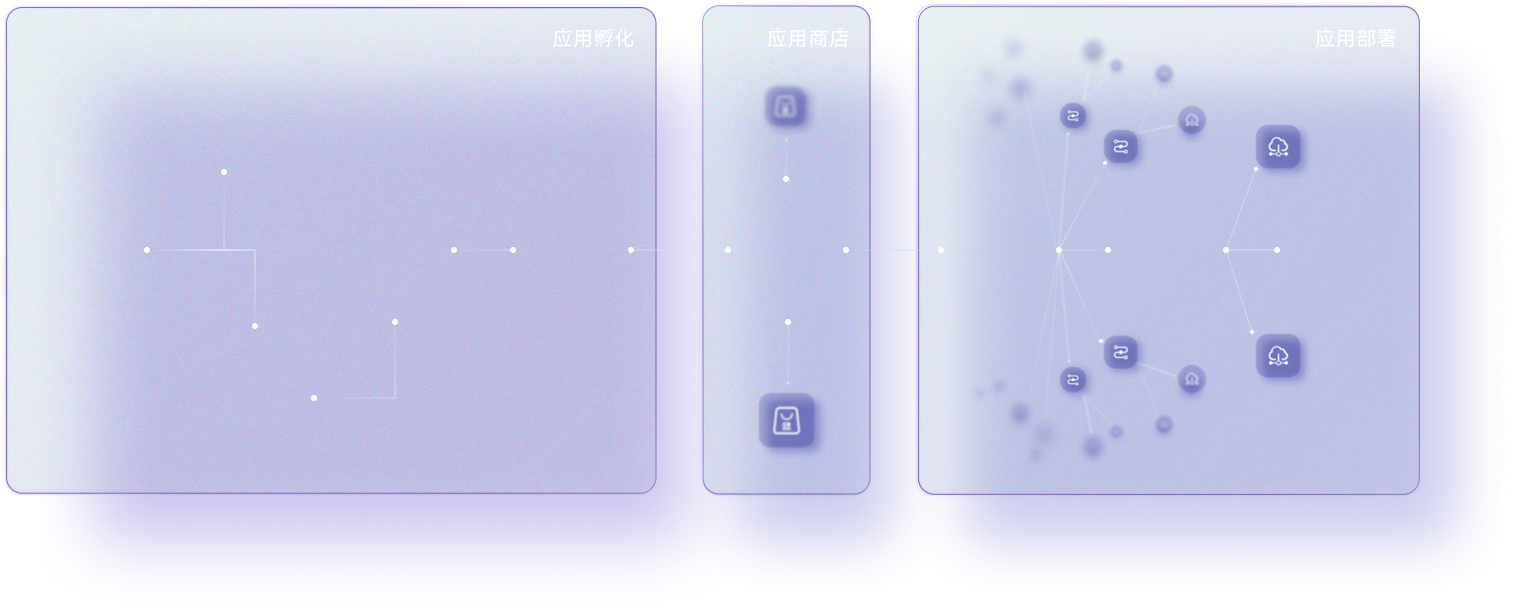
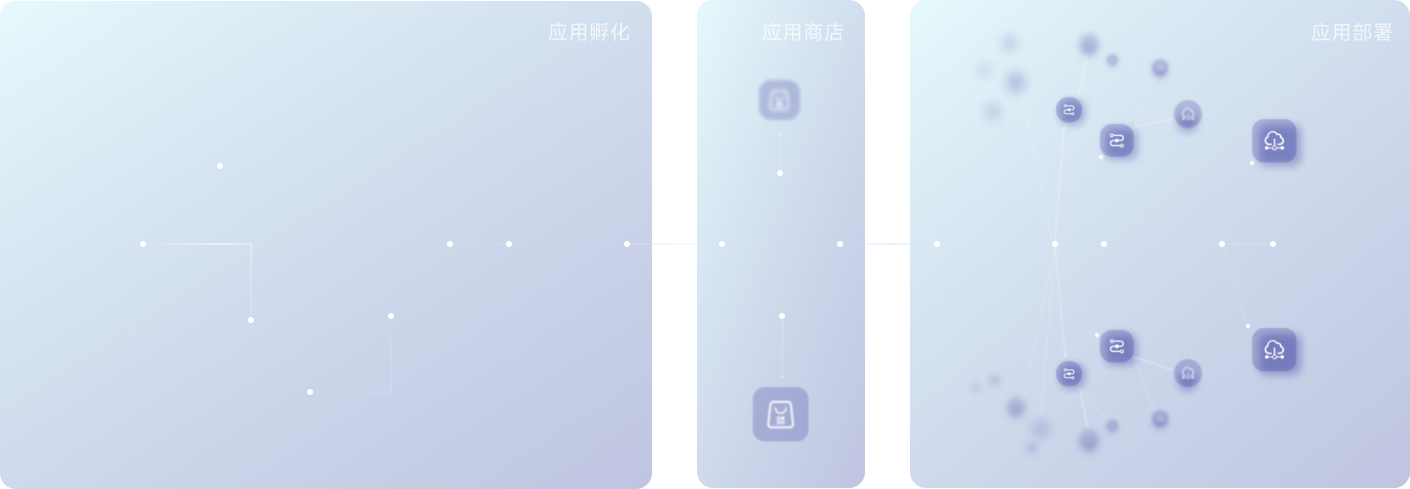
界面更新

diff --git a/edgegallery-fe/src/pages/developer/application/ApplicationtList.vue b/edgegallery-fe/src/pages/developer/application/ApplicationtList.vue
@@ -33,6 +33,13 @@
       />
       <div
         class="app-btn"
+        :class="isDeleteActive?'delete-active':'delete-default'"
+        title="删除"
+        v-if="zoom>2"
+        @click.stop="deleteApp()"
+      />
+      <div
+        class="app-btn"
         :class="isViewActive?'view-active':'view-default'"
         title="更多"
         @click.stop="changeView(isViewActive)"
@@ -54,6 +61,7 @@
       >
         <ListComp
           :data-list="currentAppList"
+          :show-delete-btn="isDeleteActive"
           :class="zoom===2?'':'app-flex-items'"
         />
       </div>
@@ -68,6 +76,7 @@
       >
         <ListComp
           :data-list="filterStatus('CREATED')"
+          :show-delete-btn="isDeleteActive"
           :class="zoom===2?'':'app-flex-items'"
         />
       </div>
@@ -82,6 +91,7 @@
       >
         <ListComp
           :data-list="filterStatus('CONFIGURED')"
+          :show-delete-btn="isDeleteActive"
           :class="zoom===2?'':'app-flex-items'"
         />
       </div>
@@ -96,6 +106,7 @@
       >
         <ListComp
           :data-list="filterStatus('DEPLOYED')"
+          :show-delete-btn="isDeleteActive"
           :class="zoom===2?'':'app-flex-items'"
         />
       </div>
@@ -116,6 +127,7 @@ export default {
       return Number(this.$store.state.zoom)
     },
     currentFlow (val) {
+      console.log(val)
       this.initApplicationList()
       return Number(this.$store.state.currentFlow)
     }
@@ -126,19 +138,26 @@ export default {
       currentAppList: [],
       searchValue: '',
       isSearchActive: false,
-      isViewActive: false
+      isViewActive: false,
+      isDeleteActive: false
     }
   },
   methods: {
     changeView (val) {
       this.isViewActive = !val
       val ? this.$emit('zoomChanged', 3) : this.$emit('zoomChanged', 2)
+      if (!this.isViewActive) {
+        this.isDeleteActive = false
+      }
     },
     changeSmall () {
       this.$emit('zoomChanged', 1)
     },
     searchProject () {
       this.isSearchActive = true
+    },
+    deleteApp () {
+      this.isDeleteActive = !this.isDeleteActive
     },
     initApplicationList () {
       applicationApi.getApplicationList().then(res => {
@@ -193,6 +212,12 @@ export default {
     }
     .search-active{
       background: url("../../../assets/images/projects/pro_search_after.png") no-repeat center;
+    }
+    .delete-default{
+      background: url("../../../assets/images/projects/pro_delete_default.png") no-repeat center;
+    }
+    .delete-active{
+      background: url("../../../assets/images/projects/pro_delete_click.png") no-repeat center;
     }
     .view-default{
       background: url("../../../assets/images/projects/pro_view_default.png") no-repeat center;

diff --git a/edgegallery-fe/src/pages/developer/application/ListComp.vue b/edgegallery-fe/src/pages/developer/application/ListComp.vue
@@ -6,10 +6,15 @@
       class="app-item"
       @click.stop="item.id===0?createApplication():checkProjectDetail(item)"
     >
+      <div
+        class="app-item-delete"
+        @click="deleteApp(item.id)"
+        v-if="item.id!==0&&showDeleteBtn"
+      />
       <img
         :src="item.id===0?item.iconUrl:getFile(item.iconFileId)"
         :alt="item.name.length>4?item.name.substr(0,4)+'...':item.name"
-        :class="item.status==='creating'?'current':''"
+        :class="item.id==='creating'?'current':''"
       >
       <div
         class="app-name"
@@ -36,6 +41,10 @@ export default {
 
   },
   props: {
+    showDeleteBtn: {
+      type: Boolean,
+      default: false
+    },
     dataList: {
       type: Array,
       default: () => []
@@ -67,6 +76,21 @@ export default {
     },
     getFile (id) {
       return applicationApi.getFileStream(id)
+    },
+    deleteApp (id) {
+      this.$confirm('此操作将永久删除该应用, 是否继续?', '提示', {
+        confirmButtonText: '确定',
+        cancelButtonText: '取消',
+        type: 'warning'
+      }).then(() => {
+        applicationApi.deleteApp(id).then(res => {
+          this.$message({
+            type: 'success',
+            message: '删除成功!'
+          })
+          this.$store.commit('changeFlow', '0')
+        })
+      })
     }
   }
 }
@@ -78,6 +102,7 @@ export default {
     cursor: pointer;
     padding: 20px 15px;
     width: 154px;
+    position: relative;
     .app-name{
       text-align: center;
       white-space: pre-wrap;
@@ -91,6 +116,15 @@ export default {
       border: 3px solid #42F6AC;
       border-radius: 66px;
     }
+  }
+  .app-item-delete{
+    width: 10px;
+    height: 10px;
+    position: relative;
+    top: 10px;
+    left: 75px;
+    background: url("../../../assets/images/projects/pro_failed.png") no-repeat center;
+    z-index: 10;
   }
   .app-common-status{
     font-size: 10px;

diff --git a/edgegallery-fe/src/pages/developer/application/CreateApplicationForm.vue b/edgegallery-fe/src/pages/developer/application/CreateApplicationForm.vue
@@ -253,7 +253,8 @@ export default {
       isUploadIcon: false,
       logoFileList: [],
       mdFileList: [],
-      defaultIconFile: []
+      defaultIconFile: [],
+      appId: sessionStorage.getItem('applicationId') || ''
     }
   },
   methods: {
@@ -377,16 +378,27 @@ export default {
             formdata.append('file', this.defaultIconFile[0])
             formdata.append('fileType', 'icon')
           }
-          applicationApi.uploadAppIcon(formdata).then(res => {
-            if (res.data && res.data.fileId) {
-              this.uploadMdFile(res.data.fileId)
-            }
-          }).catch(err => {
-            console.log(err)
-          })
+          if (this.appId.length > 0) {
+            this.modifyApp()
+          } else {
+            applicationApi.uploadAppIcon(formdata).then(res => {
+              if (res.data && res.data.fileId) {
+                this.uploadMdFile(res.data.fileId)
+              }
+            }).catch(err => {
+              console.log(err)
+            })
+          }
         } else {
           console.log('error submit!!')
         }
+      })
+    },
+    modifyApp () {
+      this.applicationFormData.id = this.appId
+      applicationApi.modifyApp(this.appId, this.applicationFormData).then(res => {
+        this.$message.success('更新应用成功！')
+        this.$router.push('/EG/developer/home')
       })
     },
     confirmToCreate (iconFileId, mdFileId) {
@@ -425,11 +437,9 @@ export default {
     }
   },
   mounted () {
-    let appId = sessionStorage.getItem('applicationId')
-    if (appId.length > 0) {
-      this.getApplicationInfo(appId)
-    } else {
-      this.conversionIcon()
+    this.conversionIcon()
+    if (this.appId.length > 0) {
+      this.getApplicationInfo(this.appId)
     }
   }
 }

diff --git a/edgegallery-fe/src/pages/homePage/Home.vue b/edgegallery-fe/src/pages/homePage/Home.vue
@@ -133,7 +133,7 @@ export default {
         height: 100%;
         margin-right: 3%;
         overflow: hidden;
-        background: url('../../assets/images/index/index_mask.png') no-repeat center;
+        background: url('../../assets/images/index/index_module_bg_default.png') no-repeat center;
         background-size: cover;
         border: 2px solid #B6A4EC;
         border-radius: 17px;
@@ -151,6 +151,9 @@ export default {
       }
       .main-content-right-item:hover{
         transform: translate3d(0,-20px,0);
+        border: 3px solid #42F6AC;
+        background: url('../../assets/images/index/index_module_bg_active.png') no-repeat center;
+        background-size: cover;
       }
     }
 

diff --git a/edgegallery-fe/src/pages/developer/workflow/Incubation.vue b/edgegallery-fe/src/pages/developer/workflow/Incubation.vue
@@ -103,24 +103,24 @@ export default {
 <style lang="less" scoped>
 .incubation{
   .capability-center{
-    left: 160px;
-    top: -140px;
+    left: 155px;
+    top: -145px;
   }
   .app-application{
-    left: 25px;
-    top: 140px;
+    left: 20px;
+    top: 130px;
   }
   .app-image{
     left: 330px;
-    top: -250px;
+    top: -260px;
   }
   .app-test{
-    left: 505px;
-    top: -380px;
+    left: 500px;
+    top: -390px;
   }
   .app-sandbox{
-    left: 195px;
-    top: 20px;
+    left: 190px;
+    top: 15px;
   }
 }
 </style>

diff --git a/edgegallery-fe/src/api/developerApi.js b/edgegallery-fe/src/api/developerApi.js
@@ -68,6 +68,12 @@ let applicationApi = {
   getAppInfo: function (appId) {
     return GET('/mec-developer/mec/developer/v2/applications/' + appId)
   },
+  deleteApp: function (appId) {
+    return DELETE('/mec-developer/mec/developer/v2/applications/' + appId)
+  },
+  modifyApp: function (appId, params) {
+    return PUT('/mec-developer/mec/developer/v2/applications/' + appId, params)
+  },
   getFileStream: function (fileId) {
     return '/mec-developer/mec/developer/v2/upload-files/' + fileId + '/action/get-file-stream'
   },

diff --git a/edgegallery-fe/src/pages/developer/workflow/Deployment.vue b/edgegallery-fe/src/pages/developer/workflow/Deployment.vue
@@ -83,16 +83,16 @@ export default {
 <style lang="less" scoped>
   .deployment{
     .deploy-meao{
-      top: 140px;
-      left: -55px;
+      top: 130px;
+      left: -60px;
     }
     .deploy-mepm{
-      top: 10px;
-      left: 115px;
+      top: 0px;
+      left: 110px;
     }
     .deploy-node{
-      top: -120px;
-      left: 285px;
+      top: -130px;
+      left: 280px;
     }
   }
 </style>

diff --git a/edgegallery-fe/src/tools/request.js b/edgegallery-fe/src/tools/request.js
@@ -76,7 +76,8 @@ function DELETE (url, params) {
       withCredentials: true,
       headers: {
         'Content-Type': 'application/json',
-        'X-XSRF-TOKEN': getCookie('XSRF-TOKEN')
+        'X-XSRF-TOKEN': getCookie('XSRF-TOKEN'),
+        'access_token': token
       }
     }).then(res => {
       resolve(res)

diff --git a/edgegallery-fe/src/pages/developer/application/CreateApplication.vue b/edgegallery-fe/src/pages/developer/application/CreateApplication.vue
@@ -81,8 +81,8 @@ export default {
   .create-application-form{
     position: absolute;
     top: 20%;
-    left: 35%;
-    width: 35%;
+    left: 25%;
+    width: 45%;
     padding: 35px;
     text-align: center;
   }

diff --git a/edgegallery-fe/src/pages/developer/workflow/Appstore.vue b/edgegallery-fe/src/pages/developer/workflow/Appstore.vue
@@ -70,8 +70,8 @@ export default {
   .appstore{
     color: #fff;
      .item{
-      top: 140px;
-      left: -70px;
+      top: 130px;
+      left: -75px;
     }
   }
 </style>

diff --git a/edgegallery-fe/vue.config.js b/edgegallery-fe/vue.config.js
@@ -49,7 +49,6 @@ module.exports = {
           '^/mec-developer': '/'
         }
       }
-
     }
   },
   publicPath: process.env.NODE_ENV === 'production' ? './' : '/',
